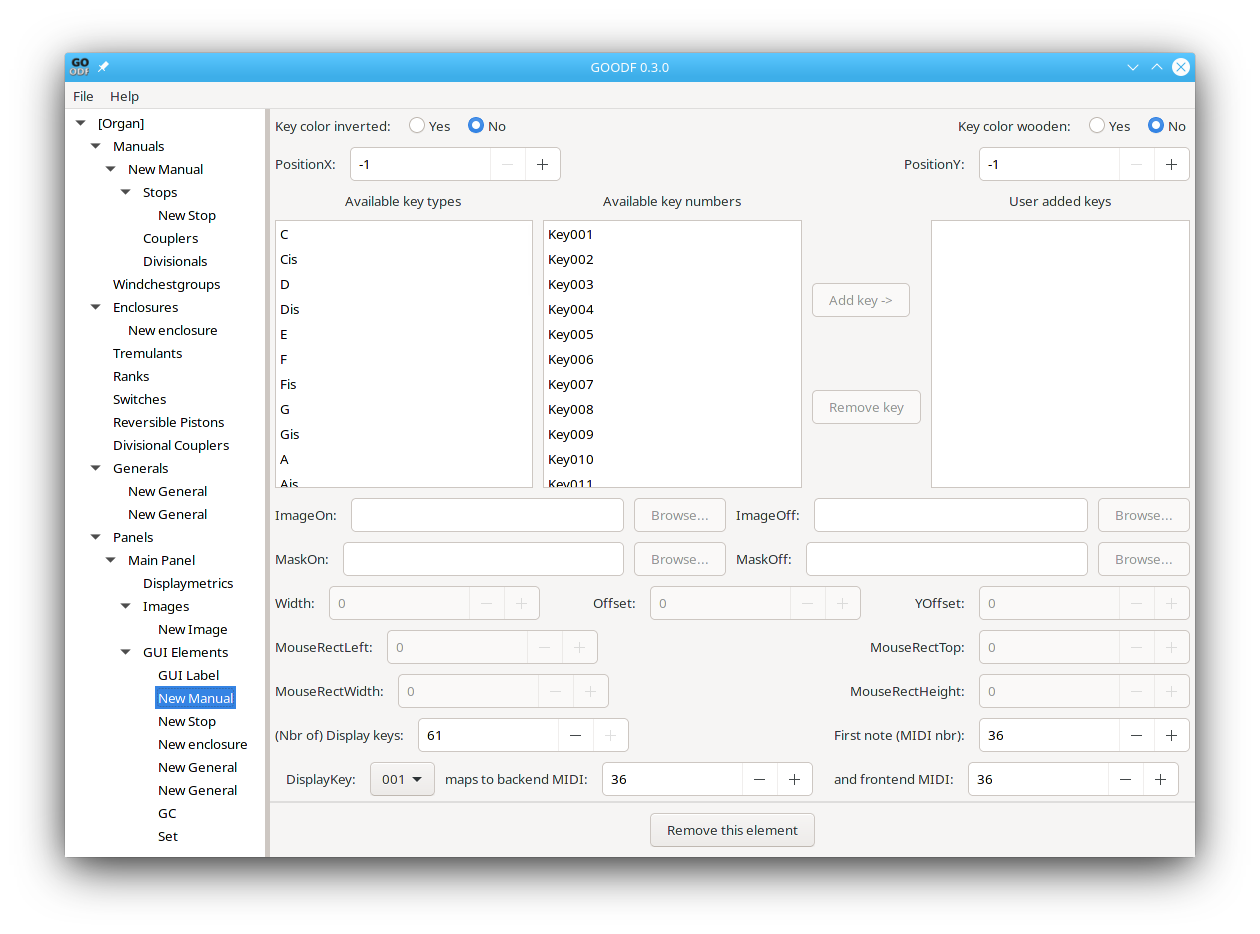
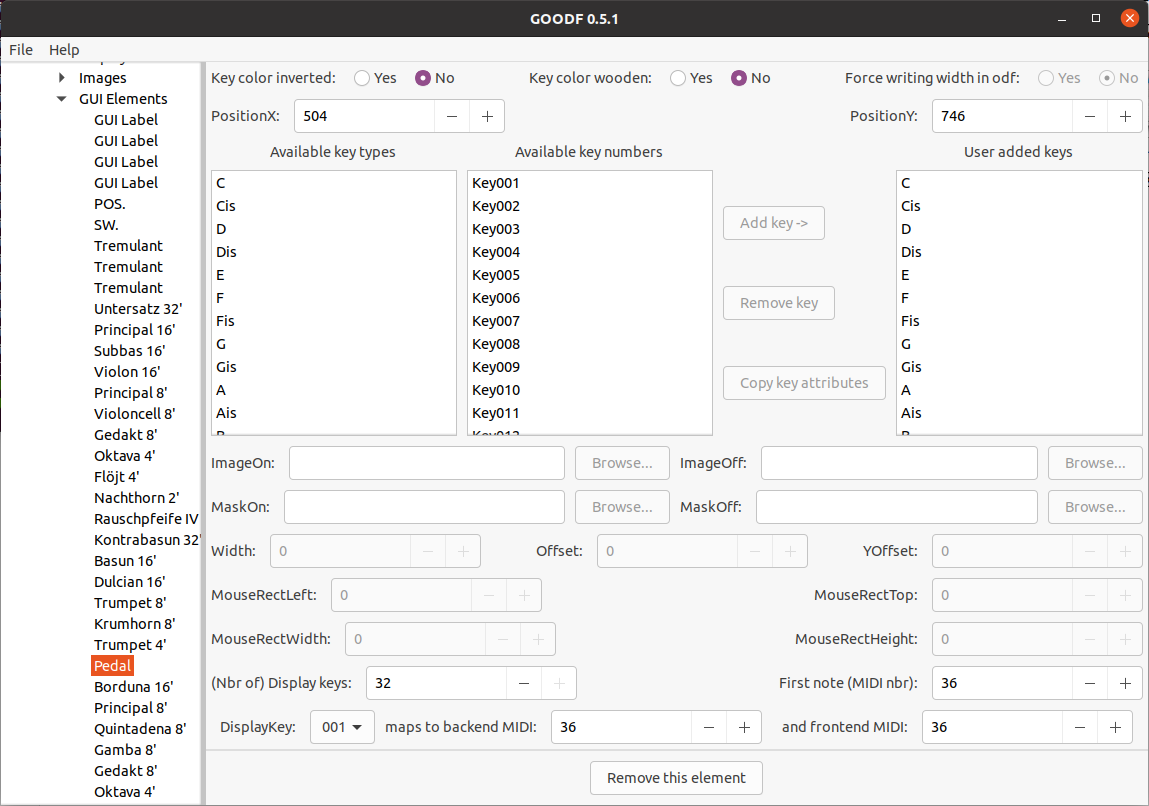
Incremented version number for new release. Updated help. Adjusted copy dialog growing proportions.

diff --git a/help/element.html b/help/element.html
@@ -95,14 +95,26 @@ are often used, perhaps 16 or 32.</p>
 <p>Manual GUI elements can be edited primarily to create custom
 manual GUI elements rather than using the images built into
 GrandOrgue. The manual GUI element editing window looks like this:</p>
-<p><img src="images/goodfhelp26_html_f7d19459420cb8b2.png" name="Image35" align="left" width="1260" height="934">
+<p><img src="images/goodfhelp26_html_f7d19459420cb8b2.png" name="Image35" align="left" width="1149" height="806">
 </img>
 </p>
 <p>Parameters are as follows:</p>
-<p><b>PositionX </b>(integer 0 - panel width, default: (-1)according
+<p><b>Key Colour Inverted </b>(Boolean, required) True means, the
+black keys are drawn in a light color while the white keys are drawn
+in a dark color. 
+</p>
+<p><b>Key Colour Wooden </b>(Boolean, default: false) True means,
+that a wood background is used for the keys. 
+</p>
+<p><b>Force writing width in odf</b> decides if the Width for a key should
+be written to the odf, even if by default it would not be. This can be useful
+for certain keyboard layouts that don't follow normal patterns. Also, if the
+key width value is specified in a read odf this value will be set to yes in 
+order to preserve the exact layout intended.</p>
+<p><b>PositionX </b>(integer 0 - panel width, default: (-1) according
 to layout model) Allow to override X position for manual. 
 </p>
-<p><b>PositionY </b>(integer 0 - panel height, default: (-1)according
+<p><b>PositionY </b>(integer 0 - panel height, default: (-1) according
 to layout model) Allow to override Y position for manual. 
 </p>
 <p>The Available keytypes are shown in two panels at the left. They
@@ -113,6 +125,11 @@ octave plus the beginning key (normally FirstC), and the last key
 custom keys are the same for each octave. Otherwise you can add up to
 display keys number of keys from the center panel if you have different
 images for each octave.</p>
+<p>The <b>Copy key attributes</b> button (will be enabled if an added key
+is chosen) makes it possible to copy all the properties of the currently
+selected key to other keys in the same manual and thus speed up the process
+to create the gui representation of the manual if many keys for instance
+share the same bitmaps and other properties.</p>
 <p><b>ImageOn</b> (string, default: implementation dependent bitmap)
 Bitmap for the specified key type, if the key is pressed. The bitmap
 may contain a mask. (one of these is needed for each of the User
@@ -135,7 +152,7 @@ User added keys.)</p>
 This value can be used to adjust the display of the current key, e.g.
 to place a sharp key overlapped with the previous key. (one of these
 is needed for each of the User added keys.)</p>
-<p><b>Yoffset </b>(integer 0 - 500, default: 0) This value is can be
+<p><b>Yoffset </b>(integer -500 - 500, default: 0) This value is can be
 used to adjust the Y coordinate of the current key. 
 </p>
 <p><b>MouseRectLeft </b>(integer 0 - key bitmap width - 1 , default:
@@ -149,13 +166,6 @@ bitmap width) width of the mouse rectangle
 </p>
 <p><b>MouseRectHeight </b>(integer 0 - key bitmap height, default:
 key bitmap height) height of the mouse rectangle 
-</p>
-<p><b>Key Colour Inverted </b>(Boolean, required) True means, the
-black keys are drawn in a light color while the white keys are drawn
-in a dark color. 
-</p>
-<p><b>Key Colour Wooden </b>(Boolean, default: false) True means,
-that a wood background is used for the keys. 
 </p>
 <p><b>FirstNote (MIDI nbr) </b>(integer 0 - 127, default:
 FirstAccessibleKeyMIDINoteNumber) Display the first key as the
@@ -175,7 +185,8 @@ key.
 </p>
 <p><b>Maps to front-end MIDI </b>contains the midi number of the
 displayed front-end GUI key. (Can be used for instance to force the
-display of the key as a sharp)
+display of the key as a sharp even when normal key layout would indicate
+that it should be displayed as a natural.)
 </p>
 <h3>Pistons, Drawstops (all kinds):</h3>
 <p>These use the same GUI element parameter window, so we can discuss
@@ -218,6 +229,24 @@ Otherwise ignored.
 <p><b>DispDrawstopCol </b>(drawstop column, default: 1) If displayed
 as drawstop, it contains the drawstop column according to the layout
 model. Otherwise ignored. 
+</p>
+
+<h3>Copy GUI Element properties:</h3>
+<p>Finally it's worth mentioning that it's possible to copy all properties
+from one GUI Element to other elements of the same type by right clicking on
+the source GUI Element that you wish to copy from. This brings up a dialog:</p>
+<p><img src="images/goodfhelp26_copy_gui_element_properties.png" align="left" width="1148" height="807">
+</img>
+</p>
+<p><b>Target panel</b> (Default to the same panel as the source element belongs to,
+but any other existing panel can be chosen) decides what elements are shown below as
+possible candidates to copy to.
+</p>
+<p>If there are matching types of elements on the panel, the listbox will be
+populated with possible targets. Multiple elements can be chosen.
+</p>
+<p>The copied attributes are: Font, Font size, Font color, (all types of) Images,
+Mouse and Text related properties. No positional properties will be copied.
 </p>
 </body>
 </html>

diff --git a/src/CopyElementAttributesDialog.cpp b/src/CopyElementAttributesDialog.cpp
@@ -119,7 +119,7 @@ void CopyElementAttributesDialog::CreateControls() {
 		wxLB_EXTENDED
 	);
 	secondRow->Add(m_availableElements, 1, wxGROW|wxALL, 5);
-	mainSizer->Add(secondRow, 0, wxGROW|wxALL, 5);
+	mainSizer->Add(secondRow, 1, wxGROW|wxALL, 5);
 
 	wxStaticLine *bottomDivider = new wxStaticLine(this);
 	mainSizer->Add(bottomDivider, 0, wxEXPAND);
